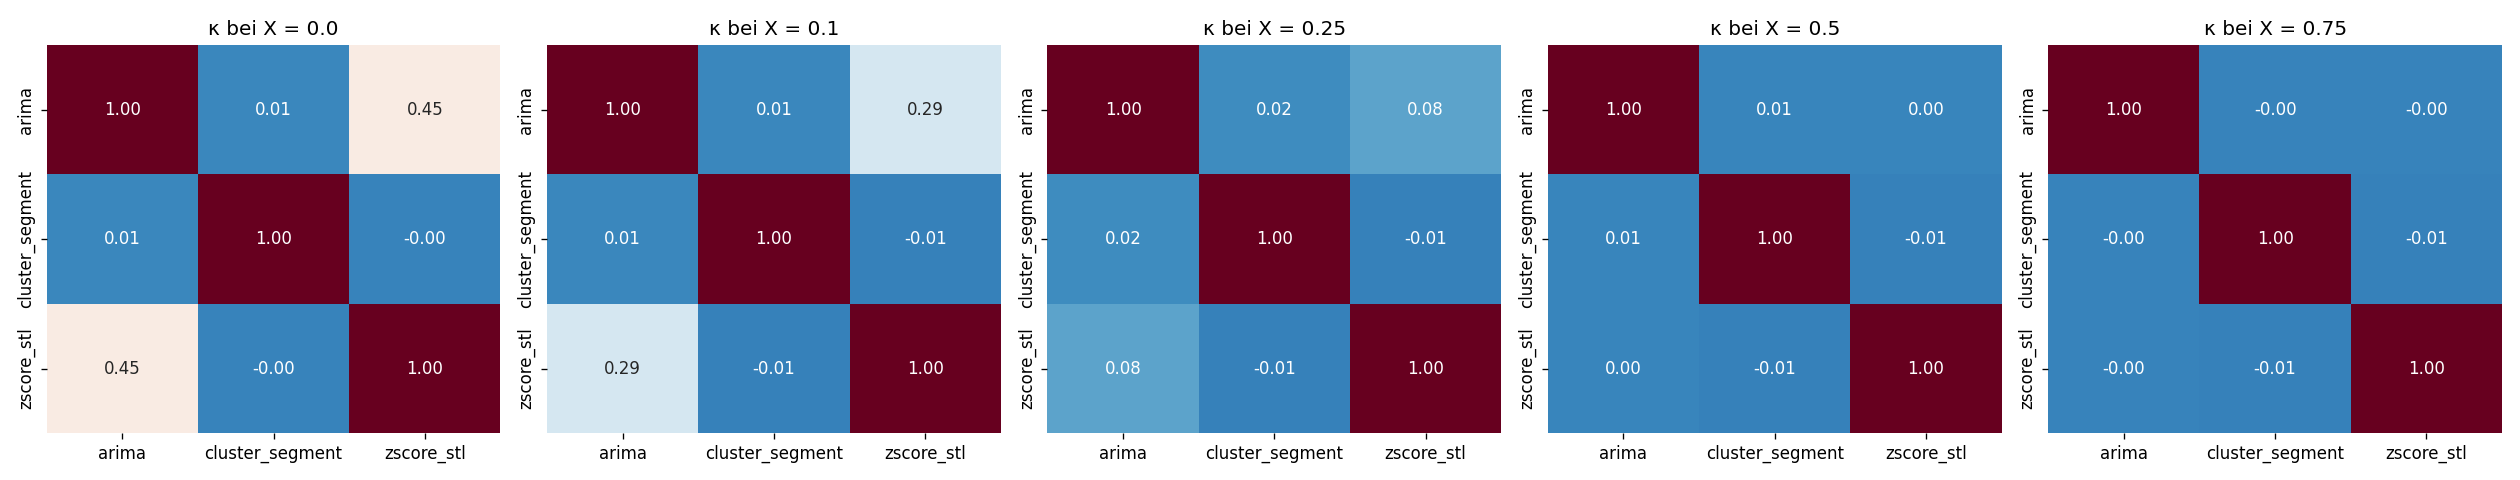
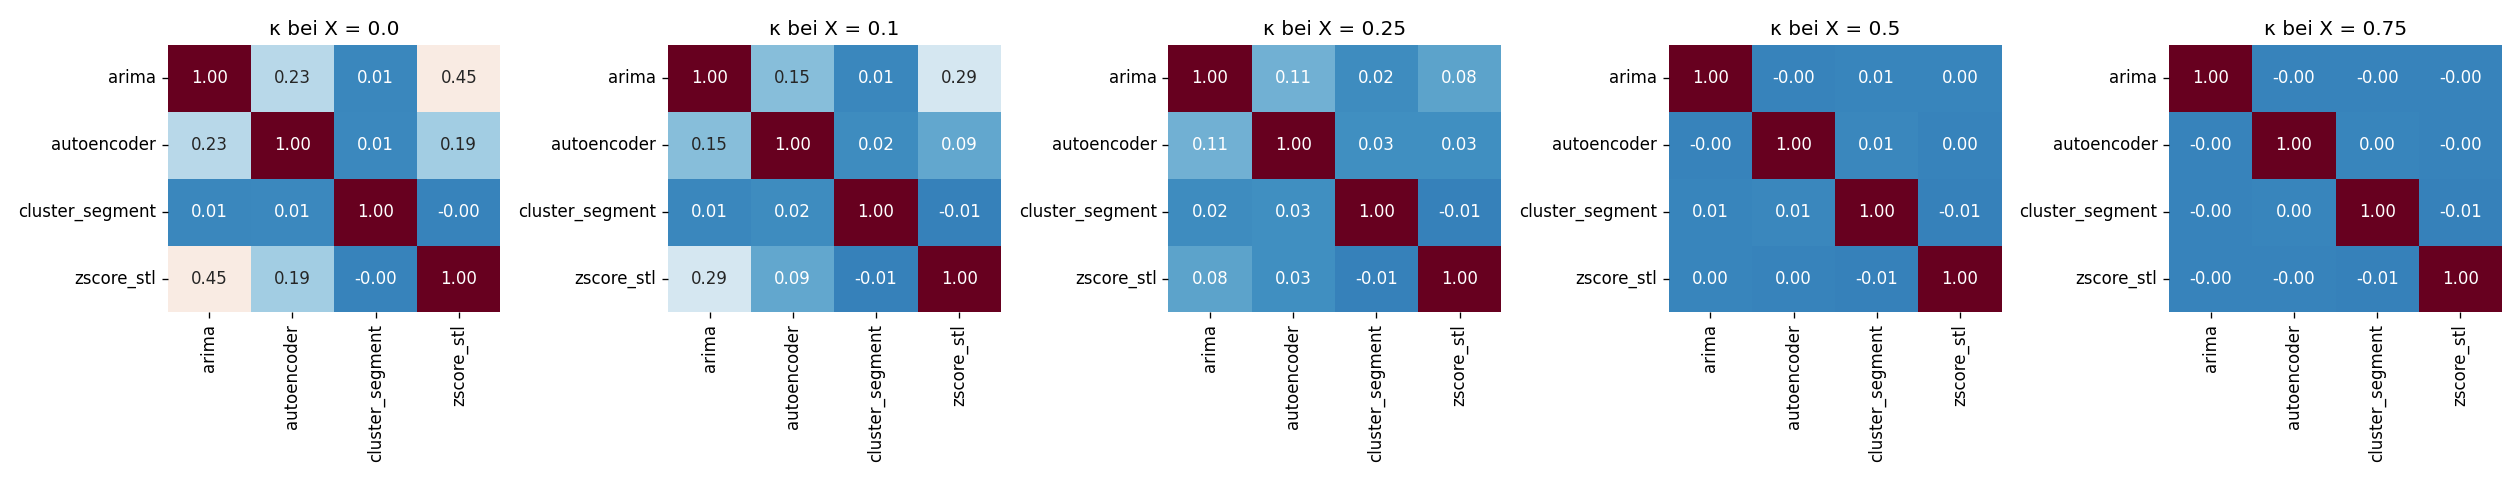
feat(eval): notebook 06 — method comparison with 4 methods, updated kappa heatmap and summary table
Re-executed after AE was reinstated. Key empirical findings with the
fourth method:

- AE Flag-Rate Test 1.21 % — in the same order of magnitude as ARIMA
  (1.05 %) and Cluster (0.64 %) at X=0.25. AE ratio 1.21/0.64 = 1.89,
  inside the 0.5×..2× band. The X=0.25 choice (originally optimised
  for ARIMA visibility) also lands AE in the comparable-rate band —
  the chosen threshold remains the right one with four methods.
- κ all six pairs ≤ 0.11, well under the 0.40 complementarity threshold.
  The largest pair is κ(arima, autoencoder)=0.11 — slightly above the
  3-method maximum 0.08, but still firmly disjoint. All four methods
  detect largely separate anomaly sets.
- Inference cost (5 baumarkts): zscore_stl ~0 s, cluster 1.4/0.0 s,
  AUTOENCODER 5.2/3.2 s, arima 118.4/50.1 s. AE is roughly 20× cheaper
  than ARIMA — the parquet-precompute recommendation in the dashboard
  applies only to ARIMA, not to AE.
- recommend_strategy currently returns ("ensemble", "union") with 3
  qualifiers (arima, cluster, zscore_stl); AE precision is NaN until
  Felix & Jakob label the 9 new AE-only candidates (plot_058..066.png).
  Once labels arrive, recommend re-evaluates over four methods without
  code change.

diff --git a/reports/tables/06_method_comparison.md b/reports/tables/06_method_comparison.md
@@ -6,6 +6,7 @@ X-Wahl-Rationale: X_default = 0.25 aus config.yaml (comparison.aggregation_thres
 
 | Methode | Native Granularität | Flag-Rate Train | Flag-Rate Test | κ vs andere | Wall-Time fit (s) | Wall-Time score (s) | Precision | Stärke | Schwäche |
 | --- | --- | --- | --- | --- | --- | --- | --- | --- | --- |
-| arima | point (15 min) | 1.03% | 1.05% | cluster_segment=0.02, zscore_stl=0.08 | 92.25 | 46.76 | 100% | Lokal-prognostische Abweichung, Peer-Gruppen-Sensitivität | Sensitiv gegen Train-Bias, langsamer |
-| cluster_segment | segment_day | 1.01% | 0.64% | arima=0.02, zscore_stl=-0.01 | 0.09 | 0.01 | 100% | Form-/Segment-untypisch; methoden-agnostische Diagnose | Keine 15-min-Lokalisierung im Segment |
-| zscore_stl | point (15 min) | 5.06% | 3.90% | arima=0.08, cluster_segment=-0.01 | 0.00 | 0.00 | 100% | Punkt-Outlier auf STL-Residual; transparent, schnell | Schwellwert manuell, Niveau-Drift schlecht erfasst |
+| arima | point (15 min) | 1.03% | 1.05% | autoencoder=0.11, cluster_segment=0.02, zscore_stl=0.08 | 118.36 | 50.06 | 100% | Lokal-prognostische Abweichung, Peer-Gruppen-Sensitivität | Sensitiv gegen Train-Bias, langsamer |
+| autoencoder | point (15 min) | 0.89% | 1.21% | arima=0.11, cluster_segment=0.03, zscore_stl=0.03 | 5.21 | 3.20 | — | Form-/Niveau-Abweichung im 24h-Lastgang; pro-Site-normiert, deep | DST-/Teiltage werden NaN; Zwischen-Site-Magnitude wegnormiert |
+| cluster_segment | segment_day | 1.01% | 0.64% | arima=0.02, autoencoder=0.03, zscore_stl=-0.01 | 1.43 | 0.01 | 100% | Form-/Segment-untypisch; methoden-agnostische Diagnose | Keine 15-min-Lokalisierung im Segment |
+| zscore_stl | point (15 min) | 5.06% | 3.90% | arima=0.08, autoencoder=0.03, cluster_segment=-0.01 | 0.00 | 0.00 | 100% | Punkt-Outlier auf STL-Residual; transparent, schnell | Schwellwert manuell, Niveau-Drift schlecht erfasst |